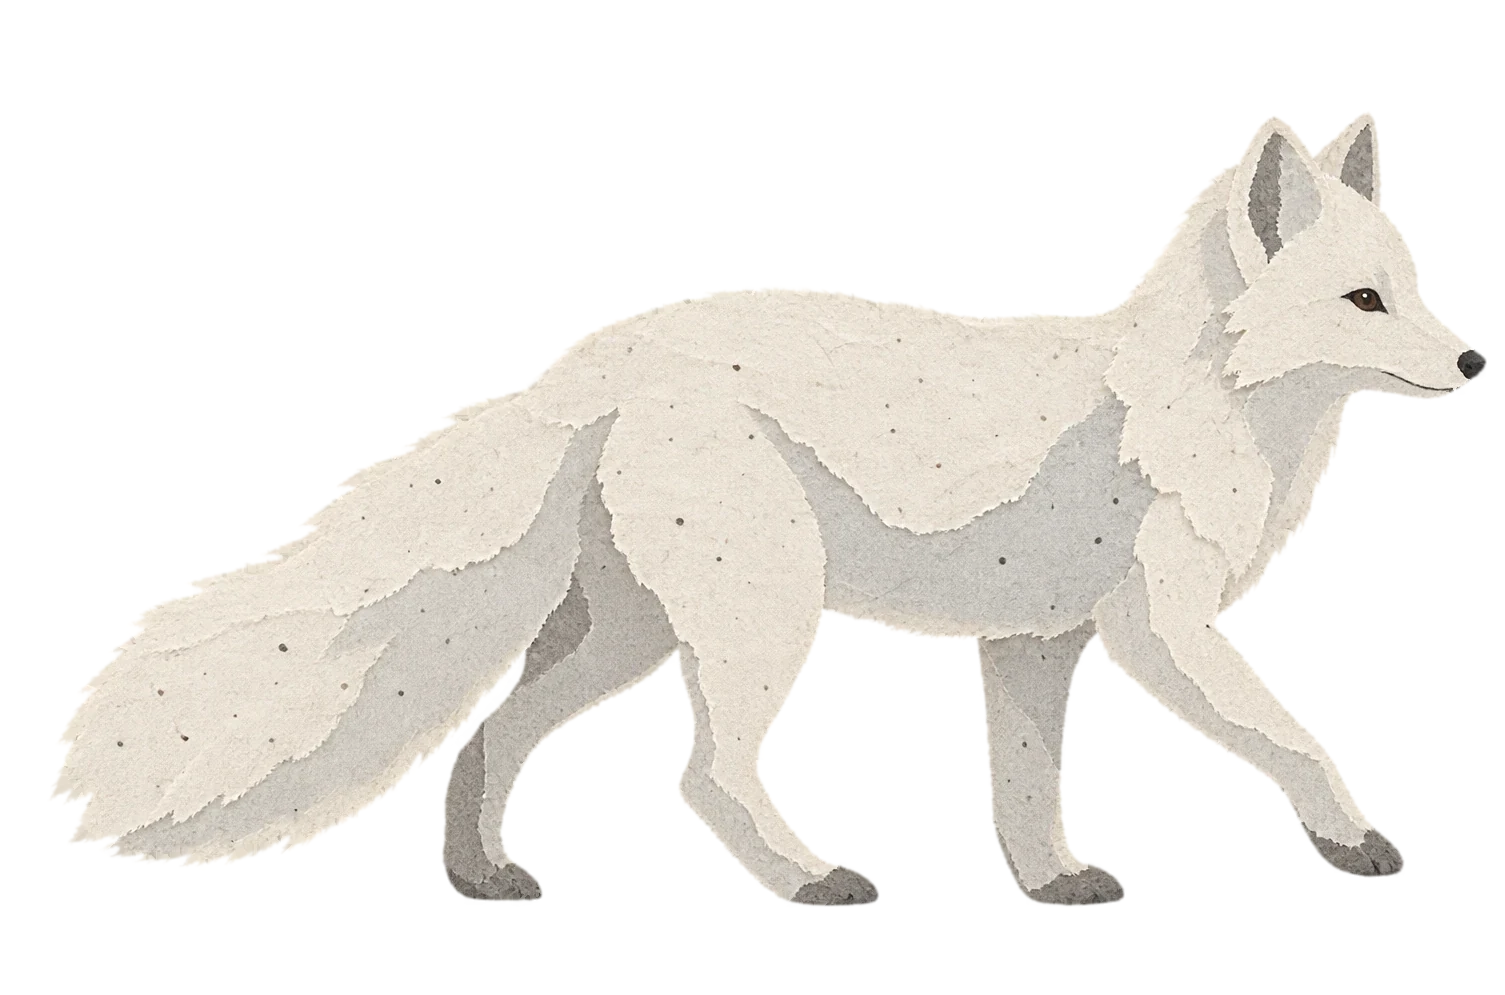
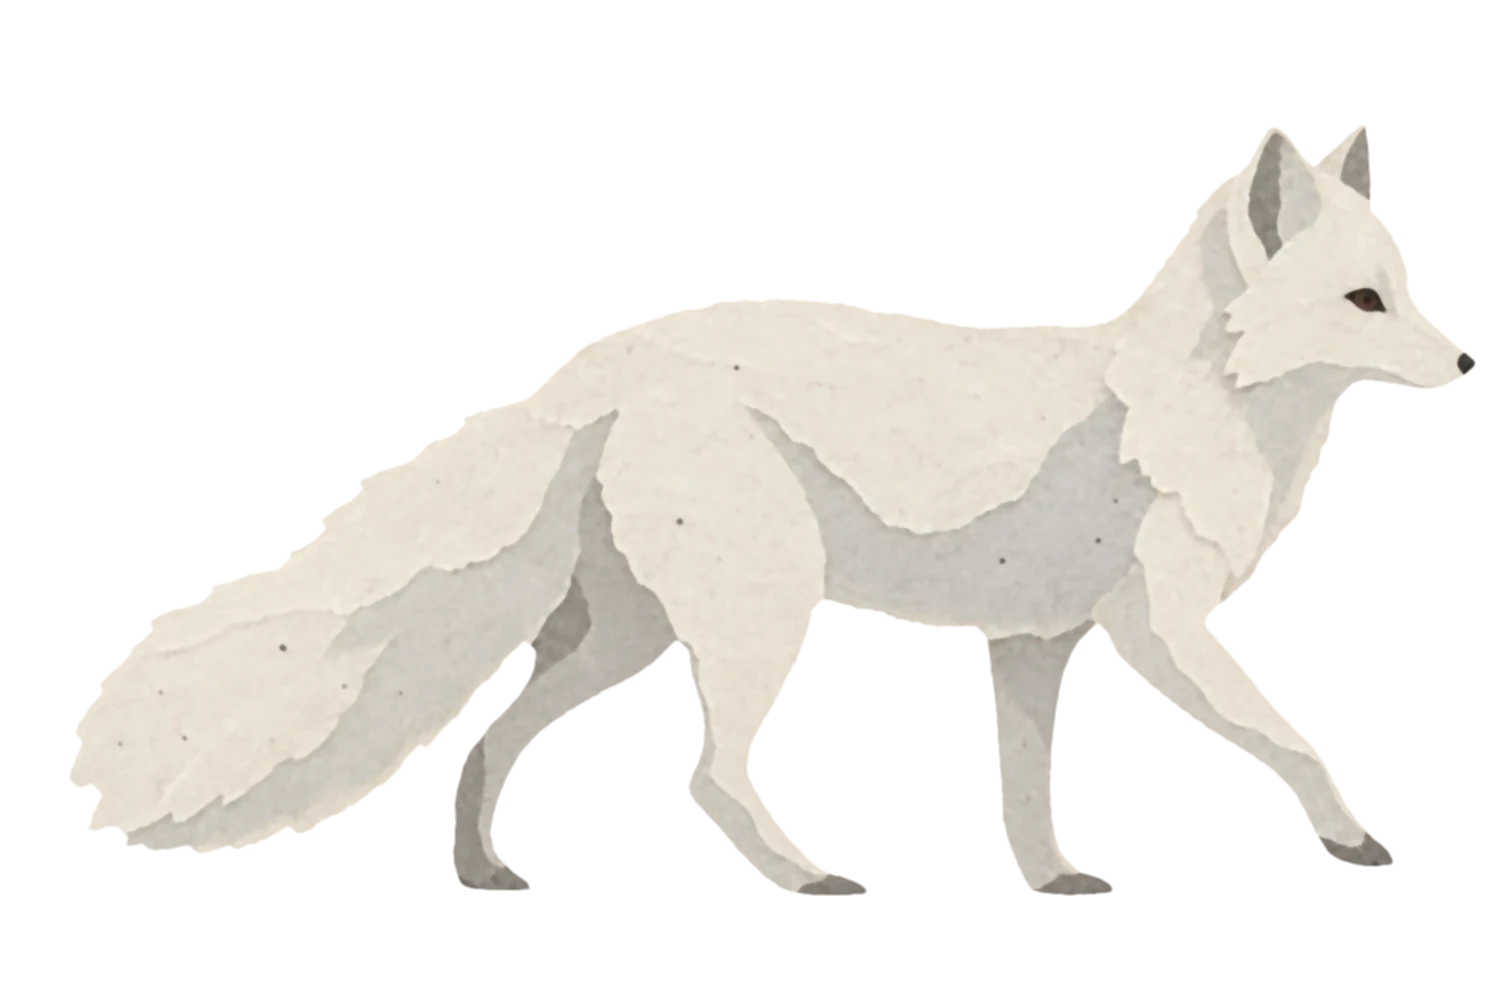
Relief: the pieces are inflated from their silhouettes and shaded; Chimin without her paper wings
- tools/restyle.py cuts the paper rim, smooths the fibre and feathers the edge; with --body it keeps
  only the person, so the snow angel is made by the letter snow rather than drawn in the picture.
  Chimin and both foxes have been run through it.
- Every outside piece gets a height map inflated from its silhouette at load; the paint shader shades
  the form from it (key light, blue in the turn, a rim toward the sun, shadow at the base) and the plane
  is pushed out in depth by it, so the pieces have volume and parallax.
- The snow angel sweeps eight points along her arms and legs through the letters, not just the tips.

Claude-Session: https://claude.ai/code/session_011WVyZLMfJP9uHZkhV6C6wd

diff --git a/src/snow/Piece.tsx b/src/snow/Piece.tsx
@@ -46,10 +46,49 @@ export type PieceProps = {
   pose?: React.MutableRefObject<Pose>
   /** an eye that can blink: centre and radii in picture uv */
   eye?: [number, number, number, number]
+  /** relief: how far (world units) the picture's inflated form pushes out toward the viewer, and how strongly it is shaded (0–1) */
+  puff?: number
+  relief?: number
+  /** the scene's shadow colour, for the relief's turn */
+  shadow?: THREE.Color
+}
+
+/**
+ * A height map inflated from the picture's silhouette: distance to the nearest transparent pixel, with a square-root
+ * profile so forms round off like a cushion and thin parts (an arm, a leg, a tail) stay lower than the body.
+ */
+const heightCache = new WeakMap<HTMLImageElement, THREE.DataTexture>()
+function heightMap(img: HTMLImageElement): THREE.DataTexture {
+  const hit = heightCache.get(img); if (hit) return hit
+  const W = 384, Hh = Math.max(8, Math.round((W * img.height) / img.width))
+  const c = document.createElement('canvas'); c.width = W; c.height = Hh; const g = c.getContext('2d')!
+  g.drawImage(img, 0, 0, W, Hh); const d = g.getImageData(0, 0, W, Hh).data
+  const INF = 1e9; const dist = new Float32Array(W * Hh)
+  for (let i = 0; i < W * Hh; i++) dist[i] = d[i * 4 + 3] > 128 ? INF : 0
+  // chamfer distance transform, two passes
+  for (let y = 0; y < Hh; y++) for (let x = 0; x < W; x++) { const i = y * W + x; if (dist[i] === 0) continue
+    let v = (x === 0 || y === 0) ? 1 : INF
+    if (x > 0) v = Math.min(v, dist[i - 1] + 1); if (y > 0) v = Math.min(v, dist[i - W] + 1)
+    if (x > 0 && y > 0) v = Math.min(v, dist[i - W - 1] + 1.41); if (x < W - 1 && y > 0) v = Math.min(v, dist[i - W + 1] + 1.41)
+    dist[i] = Math.min(dist[i], v) }
+  for (let y = Hh - 1; y >= 0; y--) for (let x = W - 1; x >= 0; x--) { const i = y * W + x; if (dist[i] === 0) continue
+    let v = (x === W - 1 || y === Hh - 1) ? 1 : dist[i]
+    if (x < W - 1) v = Math.min(v, dist[i + 1] + 1); if (y < Hh - 1) v = Math.min(v, dist[i + W] + 1)
+    if (x < W - 1 && y < Hh - 1) v = Math.min(v, dist[i + W + 1] + 1.41); if (x > 0 && y < Hh - 1) v = Math.min(v, dist[i + W - 1] + 1.41)
+    dist[i] = Math.min(dist[i], v) }
+  const scale = 0.32 * Math.min(W, Hh)
+  const h = new Float32Array(W * Hh); for (let i = 0; i < h.length; i++) h[i] = Math.sqrt(Math.min(1, dist[i] / scale))
+  // a little blur so the shading is soft
+  const out = new Uint8Array(W * Hh)
+  for (let y = 0; y < Hh; y++) for (let x = 0; x < W; x++) { let s = 0, n = 0
+    for (let dy = -2; dy <= 2; dy++) for (let dx = -2; dx <= 2; dx++) { const xx = x + dx, yy = y + dy; if (xx < 0 || yy < 0 || xx >= W || yy >= Hh) continue; s += h[yy * W + xx]; n++ }
+    out[y * W + x] = Math.round((s / n) * 255) }
+  const t = new THREE.DataTexture(out, W, Hh, THREE.RedFormat, THREE.UnsignedByteType); t.flipY = true; t.minFilter = t.magFilter = THREE.LinearFilter; t.needsUpdate = true
+  heightCache.set(img, t); return t
 }
 
 /** A painted picture standing on a plane. Arrives as ink and fills with watercolour; can dissolve into pigment; can be a puppet. */
-export function Piece({ url, width, position, rotation = [0, 0, 0], delay = 0, flip = false, opacity = 1, tint, onHover, onClick, control, renderOrder, solid = false, quaternion, sink = 0, snow, light, fog = false, frost = 0, grain = 0, glisten = 0, bones, pose, eye }: PieceProps) {
+export function Piece({ url, width, position, rotation = [0, 0, 0], delay = 0, flip = false, opacity = 1, tint, onHover, onClick, control, renderOrder, solid = false, quaternion, sink = 0, snow, light, fog = false, frost = 0, grain = 0, glisten = 0, bones, pose, eye, puff = 0, relief = 0, shadow }: PieceProps) {
   const tex = useTexture(url); tex.colorSpace = THREE.SRGBColorSpace
   const scene = useThree(s => s.scene)
   const img = tex.image as HTMLImageElement
@@ -64,7 +103,8 @@ export function Piece({ url, width, position, rotation = [0, 0, 0], delay = 0, f
     const u = mat.uniforms; u.uSize.value.set(width, width * aspect)
     if (bones) bones.slice(0, BONES).forEach((b, i) => { u.uPivot.value[i].set(b.pivot[0], b.pivot[1]); u.uRegion.value[i].set(b.region[0], b.region[1], b.region[2], b.region[3]) })
     if (eye) u.uEye.value.set(eye[0], eye[1], eye[2], eye[3])
-  }, [mat, width, aspect, bones, eye])
+    if (puff > 0 || relief > 0) u.uHeight.value = heightMap(img)
+  }, [mat, width, aspect, bones, eye, puff, relief, img])
   useEffect(() => {
     mat.uniforms.uReveal.value = 0
     const tw = gsap.to(mat.uniforms.uReveal, { value: 1, duration: prefersReducedMotion() ? 0.3 : 1.8, delay, ease: 'power2.out' })
@@ -77,7 +117,8 @@ export function Piece({ url, width, position, rotation = [0, 0, 0], delay = 0, f
   }, [mat, delay, control])
   useFrame((_, dt) => {
     const u = mat.uniforms
-    u.uTime.value += dt; u.uFlip.value = flip ? 1 : 0; u.uOpacity.value = opacity; u.uSink.value = sink; u.uFrost.value = frost; u.uGrain.value = grain; u.uGlisten.value = glisten
+    u.uTime.value += dt; u.uFlip.value = flip ? 1 : 0; u.uOpacity.value = opacity; u.uSink.value = sink; u.uFrost.value = frost; u.uGrain.value = grain; u.uGlisten.value = glisten; u.uPuff.value = puff; u.uRelief.value = relief
+    if (shadow) (u.uShadowCol.value as THREE.Color).copy(shadow)
     if (tint) (u.uTint.value as THREE.Color).lerp(tint, Math.min(1, dt * 3))
     if (snow) (u.uSnow.value as THREE.Color).copy(snow)
     if (light) (u.uLight.value as THREE.Color).copy(light)
@@ -85,7 +126,7 @@ export function Piece({ url, width, position, rotation = [0, 0, 0], delay = 0, f
     if (fog && f) { u.fogColor.value.copy(f.color); u.fogNear.value = f.near; u.fogFar.value = f.far }
     if (pose) { const p = pose.current; const ang = u.uAngle.value as Float32Array; for (let i = 0; i < BONES; i++) ang[i] = p.angles[i] || 0; u.uBreath.value = p.breath; u.uBlink.value = p.blink }
   })
-  const seg = bones ? 48 : 1
+  const seg = bones || puff > 0 ? 48 : 1
   return (
     <mesh position={position} rotation={rotation} quaternion={quaternion} material={mat} renderOrder={renderOrder}
       onPointerOver={onHover ? (e) => { e.stopPropagation(); onHover(true) } : undefined} onPointerOut={onHover ? () => onHover(false) : undefined}

diff --git a/src/snow/Letters.tsx b/src/snow/Letters.tsx
@@ -42,7 +42,8 @@ const CHIMIN_BONES: Bone[] = [
   { pivot: [0.42, 0.42], region: [0.27, 0.27, 0.20, 0.22] },   // left leg
   { pivot: [0.58, 0.42], region: [0.73, 0.27, 0.20, 0.22] },   // right leg
 ]
-const CHIMIN_TIPS: [number, number, number][] = [[0.08, 0.73, 1], [0.92, 0.73, 2], [0.16, 0.16, 3], [0.84, 0.16, 4]] // mittens and boots: uv and their bone
+// points along her arms and legs (uv and their bone): the whole limb sweeps the snow, the mitten and boot hardest
+const CHIMIN_TIPS: [number, number, number][] = [[0.08, 0.73, 1], [0.2, 0.72, 1], [0.92, 0.73, 2], [0.8, 0.72, 2], [0.16, 0.16, 3], [0.27, 0.28, 3], [0.84, 0.16, 4], [0.73, 0.28, 4]]
 // the fox's picture (side view walking right, 1505×995)
 const FOX_BONES: Bone[] = [
   { pivot: [0.76, 0.58], region: [0.87, 0.72, 0.15, 0.20] },   // head
@@ -544,12 +545,12 @@ function Scene({ onEnter, onAbout, setHover, enterRef, darkRef }: SceneProps) {
       P.breath = 0.006 * Math.sin(t * 1.3)
       if (reduced || dbg.current.noRig) { P.angles.fill(0); P.breath = 0 }
       // her mittens and boots sweep through the snow: kick the letters where they pass
-      if (A.on > 0.3 && Math.abs(Math.cos(A.phase)) > 0.4 && chiminGrp.current) {
+      if (A.on > 0.3 && Math.abs(Math.cos(A.phase)) > 0.3 && chiminGrp.current) {
         for (const [u, v, bone] of CHIMIN_TIPS) {
           const b = CHIMIN_BONES[bone]; const W = 4.2, Hh = 4.2 * CHIMIN_ASPECT
           let x = (u - 0.5) * W, y = (v - 0.5) * Hh; const px = (b.pivot[0] - 0.5) * W, py = (b.pivot[1] - 0.5) * Hh; const a = P.angles[bone]
           const qx = x - px, qy = y - py; x = px + qx * Math.cos(a) - qy * Math.sin(a); y = py + qx * Math.sin(a) + qy * Math.cos(a)
-          _p.set(x, y, 0); chiminGrp.current.localToWorld(_p); kick(field, _p.x, _p.z, 0.8, 2.4, 5)
+          _p.set(x, y, 0); chiminGrp.current.localToWorld(_p); const tip = u < 0.1 || u > 0.9 || v < 0.2; kick(field, _p.x, _p.z, tip ? 0.9 : 0.6, (tip ? 3.0 : 2.0) * Math.abs(Math.cos(A.phase)), tip ? 7 : 4)
         }
       } }
     if (!reduced) stepField(field, d)
@@ -561,7 +562,7 @@ function Scene({ onEnter, onAbout, setHover, enterRef, darkRef }: SceneProps) {
 
   const iglooY = H(0, 0)
   const camCtl = useRef<PieceControl | null>(null)
-  const piece = { tint: pieceTint, snow: cur.white, light: cur.light, fog: true, frost: 0.2, grain: 0.35 }
+  const piece = { tint: pieceTint, snow: cur.white, light: cur.light, shadow: cur.shadow, fog: true, frost: 0.16, grain: 0.3 }
   return (
     <>
       <color attach="background" args={['#e8e3f1']} />
@@ -573,17 +574,17 @@ function Scene({ onEnter, onAbout, setHover, enterRef, darkRef }: SceneProps) {
       <primitive object={sparkles} />
       <primitive object={dust} />
       {/* the igloo, set into the middle mound, its base in the snow */}
-      <Piece url={paper('igloo-back')} width={12.4} position={[0, iglooY + 2.6, -2.6]} rotation={[-0.06, 0, 0]} delay={0.2} glisten={1} solid sink={0.1} {...piece} onHover={h => setHover(h ? 'igloo' : null)} onClick={() => enterRef.current()} />
-      <Piece url={paper('igloo-front')} width={11.6} position={[0, iglooY + 2.2, 1.2]} rotation={[-0.05, 0, 0]} delay={0.5} glisten={1} solid sink={0.12} {...piece} onHover={h => setHover(h ? 'igloo' : null)} onClick={() => enterRef.current()} />
-      <Piece url={paper('igloo-arch')} width={4.6} position={[0, H(0, 3.9) + 1.2, 3.9]} rotation={[-0.04, 0, 0]} delay={0.8} glisten={1} solid sink={0.14} {...piece} onHover={h => setHover(h ? 'igloo' : null)} onClick={() => enterRef.current()} />
+      <Piece url={paper('igloo-back')} width={12.4} position={[0, iglooY + 2.6, -2.6]} rotation={[-0.06, 0, 0]} delay={0.2} glisten={1} puff={0.5} relief={0.7} solid sink={0.1} {...piece} onHover={h => setHover(h ? 'igloo' : null)} onClick={() => enterRef.current()} />
+      <Piece url={paper('igloo-front')} width={11.6} position={[0, iglooY + 2.2, 1.2]} rotation={[-0.05, 0, 0]} delay={0.5} glisten={1} puff={0.5} relief={0.7} solid sink={0.12} {...piece} onHover={h => setHover(h ? 'igloo' : null)} onClick={() => enterRef.current()} />
+      <Piece url={paper('igloo-arch')} width={4.6} position={[0, H(0, 3.9) + 1.2, 3.9]} rotation={[-0.04, 0, 0]} delay={0.8} glisten={1} puff={0.3} relief={0.7} solid sink={0.14} {...piece} onHover={h => setHover(h ? 'igloo' : null)} onClick={() => enterRef.current()} />
       <mesh position={[0, H(0, 6.4) + 0.08, 6.4]} rotation={[-Math.PI / 2, 0, 0]} material={glowMat}><planeGeometry args={[9, 7]} /></mesh>
       {/* Chimin, lying in the snow */}
       <group ref={chiminGrp} position={[chiminPos.x, H(chiminPos.x, chiminPos.z) + 0.5, chiminPos.z]} quaternion={chiminQuat}>
-        <Piece url={paper('chimin')} width={4.2} position={[0, 0, 0]} delay={1.1} solid {...piece} glisten={0.5} bones={CHIMIN_BONES} pose={chiminPose} onHover={h => { setHover(h ? 'chimin' : null); setChiminHover(h) }} onClick={onAbout} />
+        <Piece url={paper('chimin')} width={4.2} position={[0, 0, 0]} delay={1.1} solid {...piece} glisten={0.35} puff={0.28} relief={1} bones={CHIMIN_BONES} pose={chiminPose} onHover={h => { setHover(h ? 'chimin' : null); setChiminHover(h) }} onClick={onAbout} />
       </group>
       {/* the fox, wading */}
       <group ref={fox}>
-        <Piece url={paper('fox-side')} width={3.2} position={[0, 0.5, 0]} delay={1.4} flip={foxFlip} solid sink={0.2} {...piece} glisten={0.4} bones={FOX_BONES} pose={foxPose} eye={[0.905, 0.705, 0.02, 0.018]} control={camCtl} />
+        <Piece url={paper('fox-side')} width={3.2} position={[0, 0.5, 0]} delay={1.4} flip={foxFlip} solid sink={0.2} {...piece} glisten={0.4} puff={0.25} relief={1} bones={FOX_BONES} pose={foxPose} eye={[0.905, 0.705, 0.02, 0.018]} control={camCtl} />
       </group>
       <EffectComposer enableNormalPass={false}>
         <Bloom luminanceThreshold={0.96} luminanceSmoothing={0.08} intensity={0.55} mipmapBlur />

diff --git a/src/snow/paint.ts b/src/snow/paint.ts
@@ -34,9 +34,12 @@ export function makePaintMaterial(map: THREE.Texture, seed = Math.random() * 100
       uRegion: { value: Array.from({ length: BONES }, () => new THREE.Vector4(0.5, 0.5, 0, 0)) },
       uAngle: { value: new Float32Array(BONES) },
       uEye: { value: new THREE.Vector4(0, 0, 0, 0) }, uBlink: { value: 0 },
+      // relief: a height map inflated from the silhouette; the picture is shaded as a soft form and pushed out in depth
+      uHeight: { value: null as THREE.Texture | null }, uPuff: { value: 0 }, uRelief: { value: 0 }, uShadowCol: { value: new THREE.Color('#a7b6ea') },
+      uKey: { value: new THREE.Vector3(-0.45, 0.6, 0.65).normalize() }, uSunPic: { value: new THREE.Vector2(-0.6, 0.6).normalize() },
     },
     vertexShader: `
-      varying vec2 vUv; varying vec3 vW; varying float vFog; uniform float uFlip, uBreath; uniform vec2 uSize;
+      varying vec2 vUv; varying vec3 vW; varying float vFog; uniform float uFlip, uBreath, uPuff; uniform vec2 uSize; uniform sampler2D uHeight;
       uniform vec2 uPivot[${BONES}]; uniform vec4 uRegion[${BONES}]; uniform float uAngle[${BONES}];
       void main(){
         vUv = uv; if (uFlip > 0.5) vUv.x = 1.0 - vUv.x;
@@ -53,11 +56,12 @@ export function makePaintMaterial(map: THREE.Texture, seed = Math.random() * 100
           a *= w; vec2 q = p - piv; float cs = cos(a), sn = sin(a);
           p = piv + vec2(q.x * cs - q.y * sn, q.x * sn + q.y * cs);
         }
-        vec4 w4 = modelMatrix * vec4(p, 0.0, 1.0); vW = w4.xyz;
+        float hz = uPuff > 0.0 ? texture2D(uHeight, vUv).r * uPuff : 0.0;
+        vec4 w4 = modelMatrix * vec4(p, hz, 1.0); vW = w4.xyz;
         vec4 mv = viewMatrix * w4; vFog = -mv.z; gl_Position = projectionMatrix * mv; }`,
     fragmentShader: `
       uniform sampler2D uMap; uniform float uReveal, uDissolve, uTime, uSeed, uFlip, uOpacity, uCut, uSink, uTopLight, uFrost, uGrain, uGlisten, uBlink, fogNear, fogFar;
-      uniform vec3 uTint, uSnow, uLight, fogColor; uniform vec4 uEye;
+      uniform vec3 uTint, uSnow, uLight, fogColor, uShadowCol, uKey; uniform vec4 uEye; uniform sampler2D uHeight; uniform float uRelief; uniform vec2 uSunPic;
       varying vec2 vUv; varying vec3 vW; varying float vFog;
       ${NOISE_GLSL}
       void main(){
@@ -94,6 +98,17 @@ export function makePaintMaterial(map: THREE.Texture, seed = Math.random() * 100
         col = mix(col, vec3(0.28, 0.22, 0.2), ink * inkShow * 0.45);
         // the scene's light: a little brighter toward the top, and the day's tint
         col *= uTint * (1.0 + uTopLight * (vUv.y - 0.5) * 2.0);
+        // relief: the form is shaded from its height map (a soft key light from the upper left, blue in the turn), its edges
+        // toward the sun catch a rim, and the base of each form sits in a little shadow
+        if (uRelief > 0.0) { vec2 hp = 1.0 / vec2(textureSize(uHeight, 0)); float h = texture2D(uHeight, vUv).r;
+          float hx = texture2D(uHeight, vUv + vec2(hp.x, 0.0)).r - texture2D(uHeight, vUv - vec2(hp.x, 0.0)).r;
+          float hy = texture2D(uHeight, vUv + vec2(0.0, hp.y)).r - texture2D(uHeight, vUv - vec2(0.0, hp.y)).r;
+          vec3 n = normalize(vec3(-hx * 7.0, -hy * 7.0, 1.0)); float lam = dot(n, uKey) * 0.5 + 0.5;
+          vec3 shade = mix(uShadowCol / max(lum, 0.35) * 0.55 + 0.25, vec3(1.04), smoothstep(0.25, 0.95, lam));
+          col *= mix(vec3(1.0), shade, uRelief);
+          vec2 g2 = vec2(-hx, -hy); float gl = length(g2); float rim = pow(1.0 - h, 2.5) * max(0.0, dot(g2 / max(gl, 1e-4), uSunPic)) * smoothstep(0.0, 0.02, gl);
+          col += uLight * rim * 0.4 * uRelief;
+          col *= 1.0 - (1.0 - h) * 0.14 * uRelief; }
         // frost: the picture gives up some of its own contrast to the snow's colour; grain: the same dry speckle as the snow
         col = mix(col, uSnow, uFrost * (0.6 + 0.4 * (1.0 - lum)));
         col *= 1.0 + (fbm(uv * 70.0 + uSeed) - 0.5) * uGrain;

diff --git a/tools/restyle.py b/tools/restyle.py
@@ -1,0 +1,51 @@
+"""
+Turn a paper-cut piece into a painted one, as far as pixels allow: cut the pale paper rim off the
+silhouette, smooth the paper fibre and speckle into flat soft paint, and feather the edge. For Chimin
+(`--body`), also drop the white snow around her (the drawn snow-angel wings) so only she remains and
+the letter snow makes the angel.
+
+    python3 tools/restyle.py public/art/paper/fox-side.webp --rim 10
+    python3 tools/restyle.py public/art/paper/chimin.webp --rim 8 --body
+
+Run once per new piece, after defringe.py; each run cuts a little more.
+"""
+import argparse, os
+import numpy as np
+from PIL import Image, ImageFilter
+from scipy import ndimage
+
+def restyle(path: str, rim: int, body: bool, smooth: int):
+    im = Image.open(path).convert('RGBA')
+    a = np.asarray(im).astype(np.float32); al = a[..., 3] / 255.0
+    solid = al > 0.5
+    if body:
+        # the person: pixels with some colour or darkness, the largest connected blob, closed and padded
+        r, g, b = a[..., 0], a[..., 1], a[..., 2]; mx = np.maximum(np.maximum(r, g), b); mn = np.minimum(np.minimum(r, g), b)
+        sat = (mx - mn) / np.maximum(mx, 1.0); dark = mx < 150
+        core = solid & ((sat > 0.12) | dark)
+        core = ndimage.binary_opening(core, iterations=2)
+        lab, n = ndimage.label(core)
+        if n > 1: sizes = ndimage.sum(core, lab, range(1, n + 1)); core = lab == (int(np.argmax(sizes)) + 1)
+        core = ndimage.binary_closing(core, structure=np.ones((3, 3)), iterations=14)
+        core = ndimage.binary_fill_holes(core)
+        core = ndimage.binary_dilation(core, iterations=6)
+        solid = solid & core
+    # cut the rim: pull the silhouette in
+    if rim > 0: solid = ndimage.binary_erosion(solid, iterations=rim)
+    # feather
+    new_al = ndimage.gaussian_filter(solid.astype(np.float32), 2.2)
+    new_al = np.clip((new_al - 0.25) / 0.5, 0, 1)
+    # paint: smooth the fibre and speckle, keep the tones
+    rgb = Image.fromarray(a[..., :3].astype(np.uint8), 'RGB')
+    if smooth > 0: rgb = rgb.filter(ImageFilter.MedianFilter(smooth)).filter(ImageFilter.GaussianBlur(0.8))
+    rgbn = np.asarray(rgb).astype(np.float32)
+    # bleed colour outward so the feathered edge carries the piece's colour, not the old rim
+    _, (iy, ix) = ndimage.distance_transform_edt(~solid, return_indices=True)
+    out_rgb = rgbn[iy, ix]
+    out = np.concatenate([out_rgb, (new_al * 255)[..., None]], axis=-1).clip(0, 255).astype(np.uint8)
+    Image.fromarray(out, 'RGBA').save(path, 'WEBP', quality=88, method=6)
+
+if __name__ == '__main__':
+    ap = argparse.ArgumentParser(); ap.add_argument('files', nargs='+'); ap.add_argument('--rim', type=int, default=8); ap.add_argument('--body', action='store_true'); ap.add_argument('--smooth', type=int, default=7)
+    args = ap.parse_args()
+    for p in args.files: restyle(p, args.rim, args.body, args.smooth); print('restyled', os.path.basename(p))

diff --git a/docs/HANDOFF.md b/docs/HANDOFF.md
@@ -57,6 +57,7 @@ tools/optimize-art.py        PNG/JPG under public/art → WebP q82, deletes sour
 src/room/art.ts              every image slot, by name
 src/room/useArt.tsx          useArt(src) probes whether a file exists; <Art> renders it or the blockout placeholder
 src/snow/Letters.tsx         outside (R3F): letter snow. H(x,z) mounds + value noise, glyph atlas, InstancedMesh of letters and the mound with one snow shader (SNOW_GLSL), particle sim, sparkles, dust, sky shader, fox, Chimin, igloo plates
+tools/restyle.py             paper-cut → painted, as far as pixels allow: cuts the rim, smooths fibre, feathers; `--body` keeps only the person (drops drawn snow)
 tools/defringe.py            takes the white fringe off a cut-out piece (nearest-solid colour bleed + 1px alpha erosion); run once per new piece
 src/snow/Inside.tsx          inside (R3F): table close up with the objects, light planes by mode, window + shutter, hover lift, dissolve on open
 src/snow/Piece.tsx           the painted plane (shared): paint material, reveal on mount, control ref (reveal/dissolve), tint, hover/click
@@ -196,6 +197,13 @@ Console: clean (art exists for every slot now). The verify scripts lived in the 
    the v5 painted-volume build and must be rebuilt in the same language (a table close up, few objects).
 1c. Headless screenshots are unreliable (frames captured mid-render, SwiftShader fps is meaningless for 82k instances); judge in a browser.
 1d. Letter snow to tune with Chimin: mound shapes, density per layer, letter size, kick strength, sky-fall rate. Real-GPU performance is unmeasured (SwiftShader reads 1 fps regardless); if a laptop struggles, lower N first, then the sparkle/dust counts.
+1g. **Relief** (v8.2): every outside piece gets a height map inflated from its silhouette at load (`heightMap` in
+   `Piece.tsx`: chamfer distance transform at 384 px wide, square-root profile, small blur, a `DataTexture` cached per
+   image). The paint shader shades the form from it (`uRelief`: key light upper-left front, blue in the turn, a rim
+   toward the sun, shadow at the base) and the vertex shader pushes the plane out by `uPuff` × height, so the pieces
+   have volume and parallax. Chimin puff 0.28, fox 0.25, igloo plates 0.5/0.5/0.3 with relief 0.7. The current pictures
+   were run through `tools/restyle.py` (Chimin `--rim 8 --body`, foxes `--rim 10`); new pictures: defringe → restyle.
+   The snow angel now sweeps eight points along her arms and legs (`CHIMIN_TIPS`), mittens and boots hardest.
 1f. Chimin is unsure the paper-cut style is right for the outside pieces; `docs/PROMPTS.md` has a painted prefix B to regenerate igloo/Chimin/fox. If she regenerates, re-run `tools/defringe.py` on the new files and re-check the bone regions (they are in picture uv and assume the current compositions).
 1e. The inside (`Inside.tsx`) is still the paper-diorama room and has not had the v8 pass: it should show the letter snow through the window, take the same light, and its pieces already get the brushed edge/defringe.
 2. Chimin's authored default postcard arrangements (replace `defaultPieces`) once pieces exist.

diff --git a/docs/PROMPTS.md b/docs/PROMPTS.md
@@ -19,7 +19,7 @@ The snow outside is soft, luminous and grainy; a flat paper cut-out with a torn 
 igloo, Chimin and the fox, generate again with this prefix instead, same prompts, same file names:
 > Soft gouache and pastel illustration with visible grain, painted light: pale forms modelled with gentle tonal shading, no outlines, no paper texture, no torn edges, no rim, edges soft and slightly dry-brushed, a few muted tones, matte, no gloss, lit from behind and above by a low pale sun so the top and far edges catch a faint glow and the shadows are pale blue, no cast shadow on the ground, no background, transparent, centred with generous margin. Palette: white, ice blue, lilac shadow, sand, rust, ink. Not a 3D render, not clip art, not a sticker, not paper.
 
-The site already frosts, grains and glistens every piece in the shader, so a painted piece needs no sparkle drawn in.
+The site already frosts, grains, glistens and shades every piece in the shader (a relief inflated from its silhouette), so a painted piece needs no sparkle or heavy modelling drawn in; flat soft tones with a little shading are best. Drop new files in by name, then run `python3 tools/defringe.py <file>` and `python3 tools/restyle.py <file> --rim 6` (add `--body` for Chimin if the model draws snow around her: the letter snow makes the angel).
 
 ## Outside (the snowfield)
 | File | Prompt (after the prefix) | Aspect |
